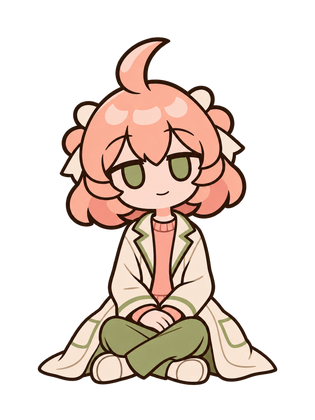
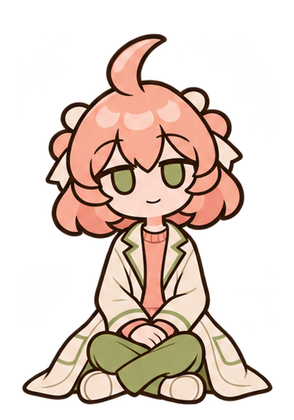
Soften mascot resting poses and add subtle drawn gestures

Changed region(s): [[0.0612, 0.0619, 0.949, 0.9905]]

diff --git a/UI/CharacterStage.cs b/UI/CharacterStage.cs
@@ -265,7 +265,7 @@ public sealed class CharacterStage : Border
         UpdateRunning();
     }
 
-    bool HasImage(string pose) => _fullBodyArt ? CharacterTheme.HasStanding(_character, pose == RestPose) : UsesParts ? CharacterTheme.Parts.Contains(pose)
+    bool HasImage(string pose, int frame = 0) => _fullBodyArt ? CharacterTheme.HasStanding(_character, pose == RestPose, frame) : UsesParts ? CharacterTheme.Parts.Contains(pose)
         : _faceArt ? CharacterTheme.HasFace(_character, pose) : CharacterTheme.HasAsset(_character, pose);
 
     /// <summary>이 캐릭터의 기본 포즈 이미지가 리소스에 있는지.</summary>
@@ -663,8 +663,9 @@ public sealed class CharacterStage : Border
         string pose;
         if (_fullBodyArt)
         {
-            index = 0;
             pose = _desktopMotion.Resting && LoadPose(RestPose) != null ? RestPose : BasePose;
+            index = pose == RestPose ? _desktopMotion.RestFrame : 0;
+            if (index != 0 && LoadPose(pose, index) == null) index = 0;
         }
         else
         {
@@ -677,28 +678,29 @@ public sealed class CharacterStage : Border
         _frame = index;
         _frameT = 0;
         _pose = pose;
-        var bmp = LoadPose(pose);
+        int restFrame = _fullBodyArt ? index : 0;
+        var bmp = LoadPose(pose, restFrame);
         _img.Source = bmp ?? _img.Source;
-        if (bmp != null) _bodyBounds = _visibleBounds[CacheKey(pose)];
+        if (bmp != null) _bodyBounds = _visibleBounds[CacheKey(pose, restFrame)];
         ApplyImageSize();
     }
 
-    string CacheKey(string pose) => $"{(_fullBodyArt ? "standing:" : UsesParts ? "part:" : _faceArt ? "face:" : "")}{_character}_{pose}";
+    string CacheKey(string pose, int frame = 0) => $"{(_fullBodyArt ? "standing:" : UsesParts ? "part:" : _faceArt ? "face:" : "")}{_character}_{pose}_{frame}";
 
-    BitmapSource? LoadPose(string pose)
+    BitmapSource? LoadPose(string pose, int frame = 0)
     {
-        var key = CacheKey(pose);
+        var key = CacheKey(pose, frame);
         if (!_poseCache.TryGetValue(key, out var bmp))
         {
             bmp = null;
             // 아직 그리지 않은 포즈는 열지 않는다 (없는 리소스를 열면 예외가 난다)
-            if (HasImage(pose))
+            if (HasImage(pose, frame))
             {
                 try
                 {
                     var decoded = new BitmapImage();
                     decoded.BeginInit();
-                    decoded.UriSource = _fullBodyArt ? CharacterTheme.StandingUri(_character, pose == RestPose) : UsesParts ? CharacterTheme.PartUri(_character, pose)
+                    decoded.UriSource = _fullBodyArt ? CharacterTheme.StandingUri(_character, pose == RestPose, frame) : UsesParts ? CharacterTheme.PartUri(_character, pose)
                         : _faceArt ? CharacterTheme.FaceUri(_character, pose) : CharacterTheme.AssetUri(_character, pose);
                     decoded.CacheOption = BitmapCacheOption.OnLoad;
                     decoded.EndInit();

diff --git a/UI/DesktopCharacterMotion.cs b/UI/DesktopCharacterMotion.cs
@@ -2,13 +2,20 @@ namespace AIUsageMonitor.UI;
 
 internal sealed class DesktopCharacterMotion(Random random)
 {
+    static readonly int[] BlinkFrames = [1, 2, 1, 0];
+    static readonly int[] NodFrames = [3, 3, 3, 0];
+    readonly Random _random = random;
     readonly double _restDelay = 2.8 + random.NextDouble() * 2.8;
     readonly double _breathPeriod = 3.4 + random.NextDouble() * 2.5;
     readonly double _phase = random.NextDouble() * 2 * Math.PI;
     double _quietTime, _dragDistance, _lean, _settle;
+    double _untilGesture = 3.8 + random.NextDouble() * 4;
+    int _gestureStep;
+    int[] _gesture = BlinkFrames;
     bool _dragging;
 
     public bool Resting { get; private set; }
+    public int RestFrame { get; private set; }
 
     public void SlideBy(double distance)
     {
@@ -27,6 +34,7 @@ internal sealed class DesktopCharacterMotion(Random random)
             Resting = resting;
             _settle = resting ? 0.035 : -0.045;
         }
+        RestFrame = NextRestFrame(seconds, resting && animate);
 
         var target = Math.Clamp(-_dragDistance / seconds / 46, -7, 7);
         _dragDistance = 0;
@@ -37,5 +45,24 @@ internal sealed class DesktopCharacterMotion(Random random)
         double breath = Math.Sin(time * 2 * Math.PI / _breathPeriod + _phase);
         double talk = speaking ? 1.6 * Math.Sin(time * 2 * Math.PI / 0.8 + _phase) : 0;
         return (1 + 0.008 * breath + _settle, _lean + 0.65 * breath + talk);
+    }
+
+    int NextRestFrame(double seconds, bool enabled)
+    {
+        if (!enabled)
+        {
+            _gestureStep = 0;
+            return 0;
+        }
+        if (_gestureStep == 0)
+        {
+            _untilGesture -= seconds;
+            if (_untilGesture > 0) return 0;
+            _untilGesture = 4.5 + _random.NextDouble() * 7;
+            _gesture = _random.Next(4) == 0 ? NodFrames : BlinkFrames;
+        }
+        int frame = _gesture[_gestureStep++];
+        if (_gestureStep == _gesture.Length) _gestureStep = 0;
+        return frame;
     }
 }

diff --git a/tests/AIUsageMonitor.Regression/CharacterSelectionTests.cs b/tests/AIUsageMonitor.Regression/CharacterSelectionTests.cs
@@ -175,6 +175,23 @@ internal static partial class Program
                 lefts.SequenceEqual(window.Stages.Select(Canvas)),
                 string.Join(", ", restingBodies.Select(body => $"{body.Height:F1}/{body.Bottom:F1}")));
             RenderFixture(window, "character-resting");
+            var shownFrames = new HashSet<int>[window.Stages.Length];
+            var frameIndex = PrivateField<CharacterStage>("_frame");
+            for (int i = 0; i < shownFrames.Length; i++)
+            {
+                var stage = window.Stages[i];
+                shownFrames[i] = [];
+                for (int sample = 0; sample < 125; sample++)
+                {
+                    frame.Invoke(stage, null);
+                    shownFrames[i].Add((int)frameIndex.GetValue(stage)!);
+                }
+            }
+            Check("each resting mascot has three drawn gesture frames and plays a brief gesture",
+                window.Stages.All(stage => Enumerable.Range(1, 3).All(index => CharacterTheme.HasStanding(stage.Character, true, index))) &&
+                shownFrames.All(frames => SystemParameters.ClientAreaAnimation ? frames.Contains(0) && frames.Any(index => index > 0) :
+                    frames.SetEquals([0])),
+                string.Join(" / ", shownFrames.Select(frames => string.Join(",", frames.Order()))));
             PrivateMethod<CharacterStage>("SlideBy").Invoke(window.Gpt, [22.0]);
             frame.Invoke(window.Gpt, null);
             window.UpdateLayout();

diff --git a/UI/CharacterTheme.cs b/UI/CharacterTheme.cs
@@ -108,9 +108,10 @@ public sealed class CharacterTheme
 
     public static bool HasFace(string key, string expression) => HasResource(FacePath(key, expression));
 
-    public static Uri StandingUri(string key, bool resting = false) => PackUri(StandingPath(key, resting));
-    public static bool HasStanding(string key, bool resting = false) => HasResource(StandingPath(key, resting));
-    static string StandingPath(string key, bool resting) => resting ? $"Assets/Standing/Rest/{key}.png" : $"Assets/Standing/{key}.png";
+    public static Uri StandingUri(string key, bool resting = false, int frame = 0) => PackUri(StandingPath(key, resting, frame));
+    public static bool HasStanding(string key, bool resting = false, int frame = 0) => HasResource(StandingPath(key, resting, frame));
+    static string StandingPath(string key, bool resting, int frame) => !resting ? $"Assets/Standing/{key}.png"
+        : frame == 0 ? $"Assets/Standing/Rest/{key}.png" : $"Assets/Standing/Rest/Frames/{key}-{frame}.png";
 
     public static ImageSource? ConversationPortrait(string key, bool speaking = false, ImageSource? stage = null)
     {

diff --git a/UI/StandingSprite.cs b/UI/StandingSprite.cs
@@ -28,12 +28,12 @@ internal static class StandingSprite
     readonly record struct RestLandmarks(int Crown, int Chin, int EyeSpacing, int BodyHeight);
     static readonly Dictionary<string, RestLandmarks> RestArt = new()
     {
-        ["orch"] = new(80, 208, 47, 160),
-        ["claude"] = new(13, 205, 71, 132),
-        ["gpt"] = new(39, 207, 56, 165),
-        ["gemini"] = new(76, 220, 52, 150),
-        ["grok"] = new(12, 176, 57, 219),
-        ["deepseek"] = new(62, 225, 70, 139),
+        ["orch"] = new(80, 218, 50, 160),
+        ["claude"] = new(32, 218, 65, 132),
+        ["gpt"] = new(32, 210, 59, 165),
+        ["gemini"] = new(85, 226, 51, 150),
+        ["grok"] = new(32, 181, 48, 219),
+        ["deepseek"] = new(82, 228, 60, 139),
     };
 
     public static BitmapSource Render(string character, BitmapSource art, Rect visible, bool resting)

diff --git a/art/standing-prompt-set.md b/art/standing-prompt-set.md
@@ -34,3 +34,20 @@ Use case: identity-preserve. Create ONE original alternate resting sprite for th
 | `gemini.png` | Gemini is seated on the floor, one knee up and one short leg folded in front, forearm resting loosely on the raised knee. Maintain the blonde twin tails, turquoise bows, blue eyes, star pins, pink-to-purple ends and gold-trimmed navy outfit. Tip the head slightly to the viewer's right and give her a small cheerful smile. Both complete shoes in frame. |
 | `grok.png` | Grok is STANDING casually with weight on one hip, one knee relaxed, one boot angled out, a hand lightly in a jacket pocket and the other hanging loose. One shoulder subtly lower. Keep feet flat at the same floor, recognizable gray eyes, diagonal white X black hair clip, loose golden blonde hair and black jacket, skirt, tights and boots. A mild half-smile and the relaxed half-lidded gaze. |
 | `deepseek.png` | DeepSeek sits comfortably on the floor with both legs loosely folded beside the body, torso leaning slightly to one side and cheek resting loosely on the back of one hand. One forearm can rest on a knee for support. Keep long dark blue hair, sky blue clips, white side accessories, navy-and-white outfit and cloudy blue eyes. Gentle content expression, both complete shoes visible. |
+
+## Blinks and nods
+
+Built-in ImageGen edited each resting original into a four-frame sheet. The selected frames were cut into separate PNGs at a common scale, centered on their visible silhouettes, and aligned to the same baseline. The neutral frame is in `Assets/Standing/Rest/`. The half blink, closed eyes, and nod are in `Assets/Standing/Rest/Frames/`, numbered 1 through 3.
+
+```text
+Use case: identity-preserve. Deliver ONE 2 by 2 animation sprite sheet of exactly ONE character from the attached original ChatterBox PNG. Each cell contains a complete separate full-body version of that same character. Exact grid of four equal cells, no borders, labels, props, shadows, or background. A clean blank alpha gutter across the entire vertical and horizontal centerlines, plenty of transparent margins around each figure. Make the four figures match EXACTLY in scale, in-cell center, floor baseline, hairstyle silhouette, cheek size, outfit, hands, legs, feet, and perspective. Draw like a stable low-motion game character animation; duplicate the base drawing before making each requested tiny face-only change. Top left is neutral eyes fully open; top right both eyes half closed; bottom left both eyes fully closed as simple friendly soft eyelid lines; bottom right eyes open and a barely perceptible head nod (2 degrees forward, shoulders, clothing and shoes frozen). Same small smile in all four; no other change in body or gesture between frames. Match the reference's thick dark warm outline, matte eyes, original palette and SD chibi proportions. Keep entire hair, hands and both shoes in every cell. If seated, make the floor contact and legs readable. No text, one character, genuine alpha, square sprite sheet.
+```
+
+| Sprite | Pose instructions |
+| --- | --- |
+| `orch.png` | Keep the Master in EXACTLY the reference's seated, loosely cross-legged pose with hands folded in the lap. Preserve the open ivory lab gown, pink shirt, sage trousers, cream shoes, peach curls and olive eyes. |
+| `claude.png` | Keep EXACTLY the relaxed side-saddle sitting pose in the supplied reference, both knees and boots together off to one side, one hand braced lightly and one hand on lap. Keep the soft brown curls, brown outfit, black bow with star and round glasses on every frame, including over the closed eyes. |
+| `gpt.png` | Keep EXACTLY the shallow squat in the supplied reference with both cyan sneakers planted, elbows lightly upon the knees, and the cyan-and-white hoodie. Keep the white asymmetrical fringe, cyan triangle clip, cyan eyes, and friendly small smile. |
+| `gemini.png` | CHANGE to a gentle, sweet kneeling sit on the floor, folded knees together, shoes peeking out on the sides, both hands resting softly together in her lap, shoulders relaxed, mild closed smile. Head mostly upright. No upright knee, no elbow braced on a knee, no leaning back. Keep the original blonde pigtails, blue eyes, teal bows, pink-and-purple tips, star hairpins and gold-trimmed navy dress. |
+| `grok.png` | CHANGE to a friendly, relaxed standing pose with both boots planted near each other and pointing mostly forward, soft shoulders, and hands loosely clasped just below the jacket front. A faint friendly smile. No hand in pocket, no slouch, no hips thrust sideways. Keep black jacket, skirt, tights and boots, long blonde hair, matte gray eyes, and black hair clip with the diagonal white X. |
+| `deepseek.png` | CHANGE to a calm seated pose with both knees together and the lower legs tucked gently to one side, both hands resting together on her lap, head upright and relaxed, small polite smile. No raised knee, no leaning the head on a hand. Keep navy-and-white outfit, navy hair and swept tuft, blue eyes, two rectangle clips, hair accessories and full shoes. |
